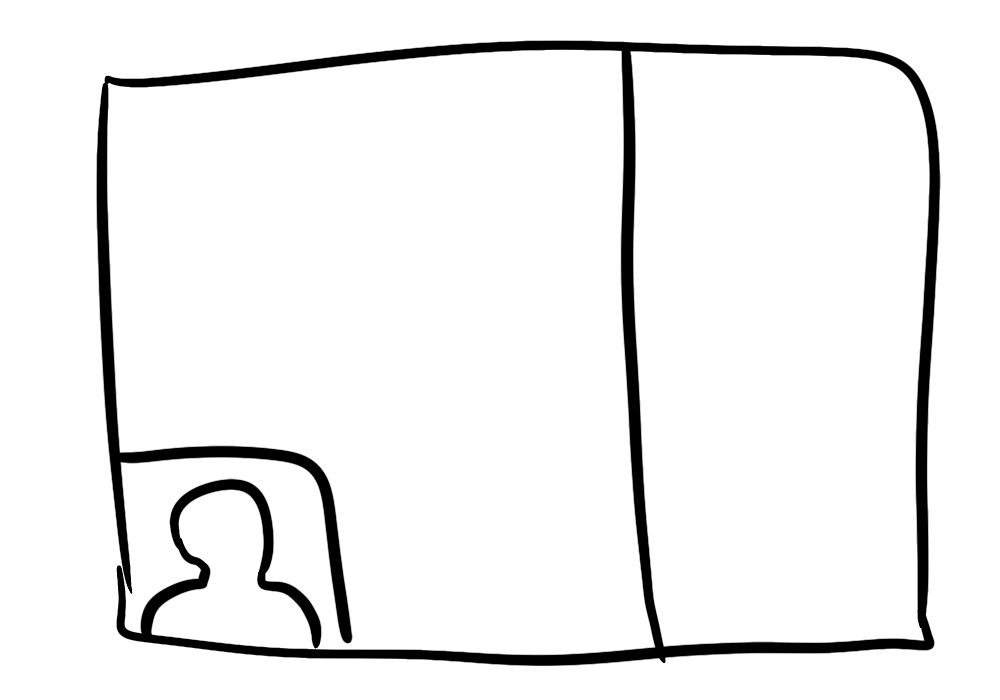
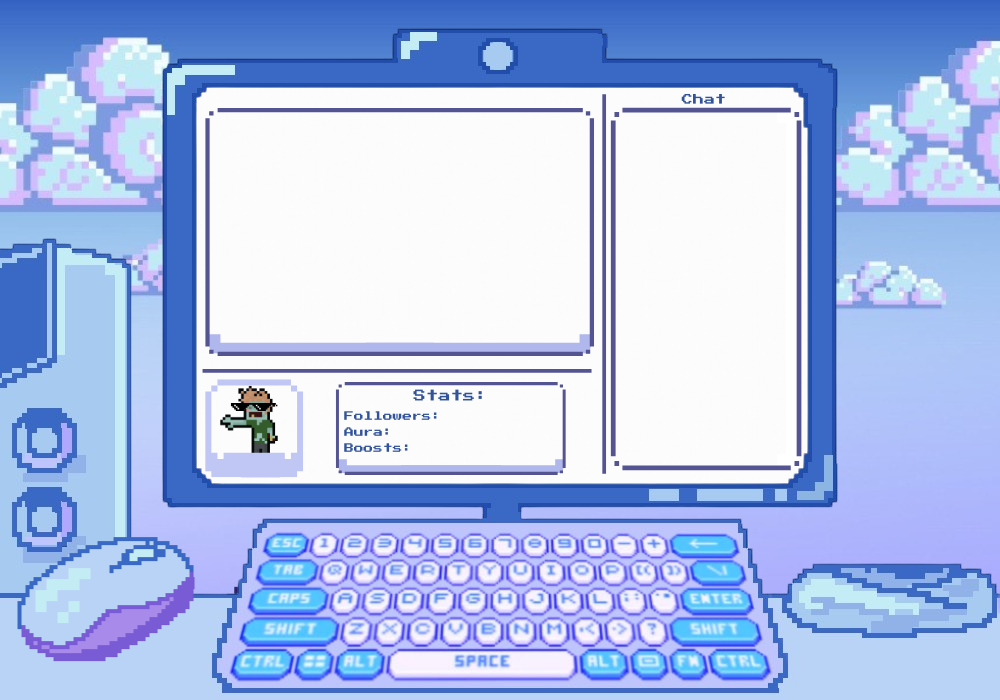
fixed live stream app

diff --git a/src/ButtonClass.java b/src/ButtonClass.java
@@ -36,8 +36,8 @@ public class ButtonClass {
         usernameText = new JTextField(15);
         livestreamChat = new JTextArea(280,500);
         scrollPane = new JScrollPane(livestreamChat);
-        scrollPane.setVerticalScrollBarPolicy(JScrollPane.VERTICAL_SCROLLBAR_ALWAYS);
-        scrollPane.setBounds(630, 80, 280, 500);
+        scrollPane.setVerticalScrollBarPolicy(JScrollPane.VERTICAL_SCROLLBAR_NEVER);
+        scrollPane.setBounds(604, 105, 180, 335);
 
         livestreamApp = new JButton();
         nextButton = new JButton();
